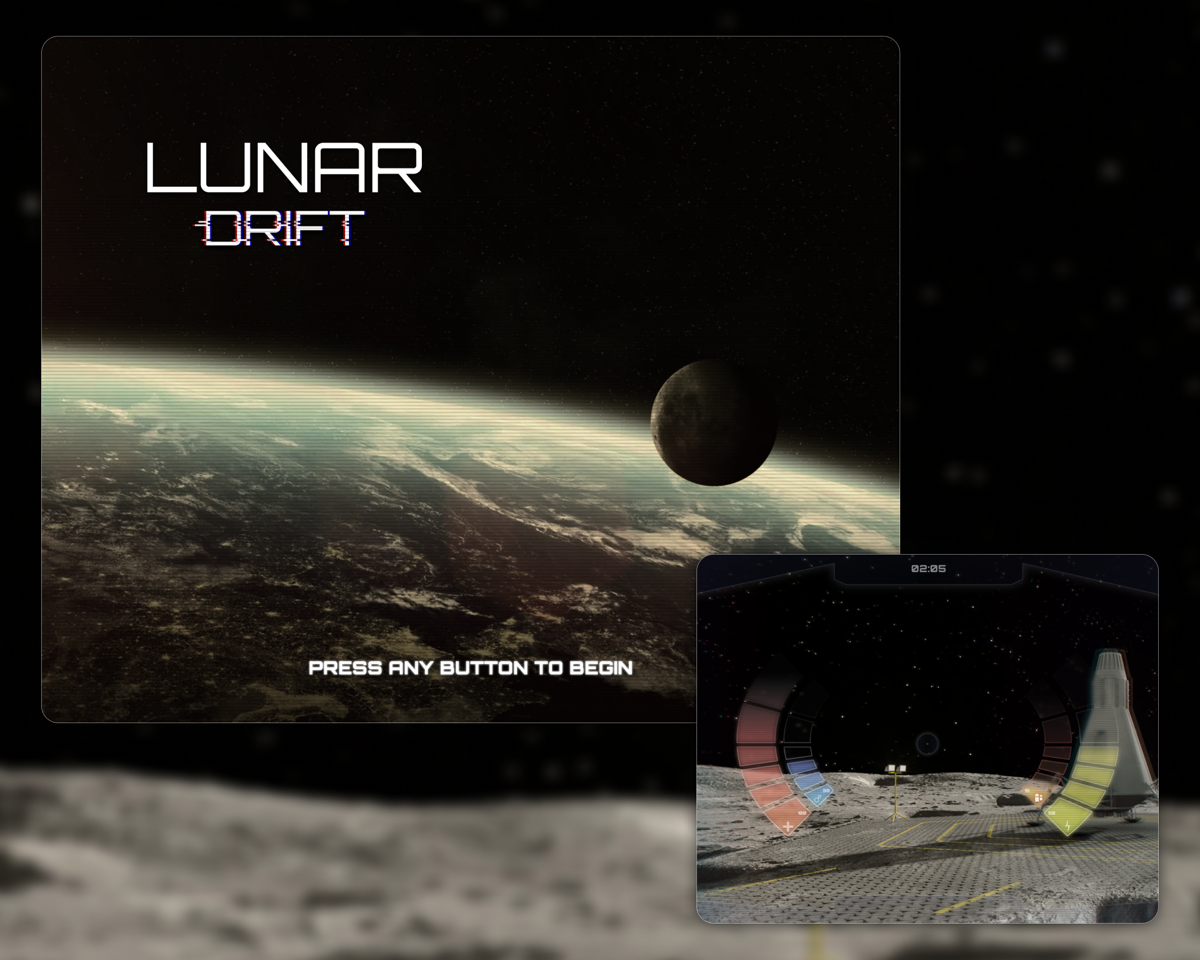
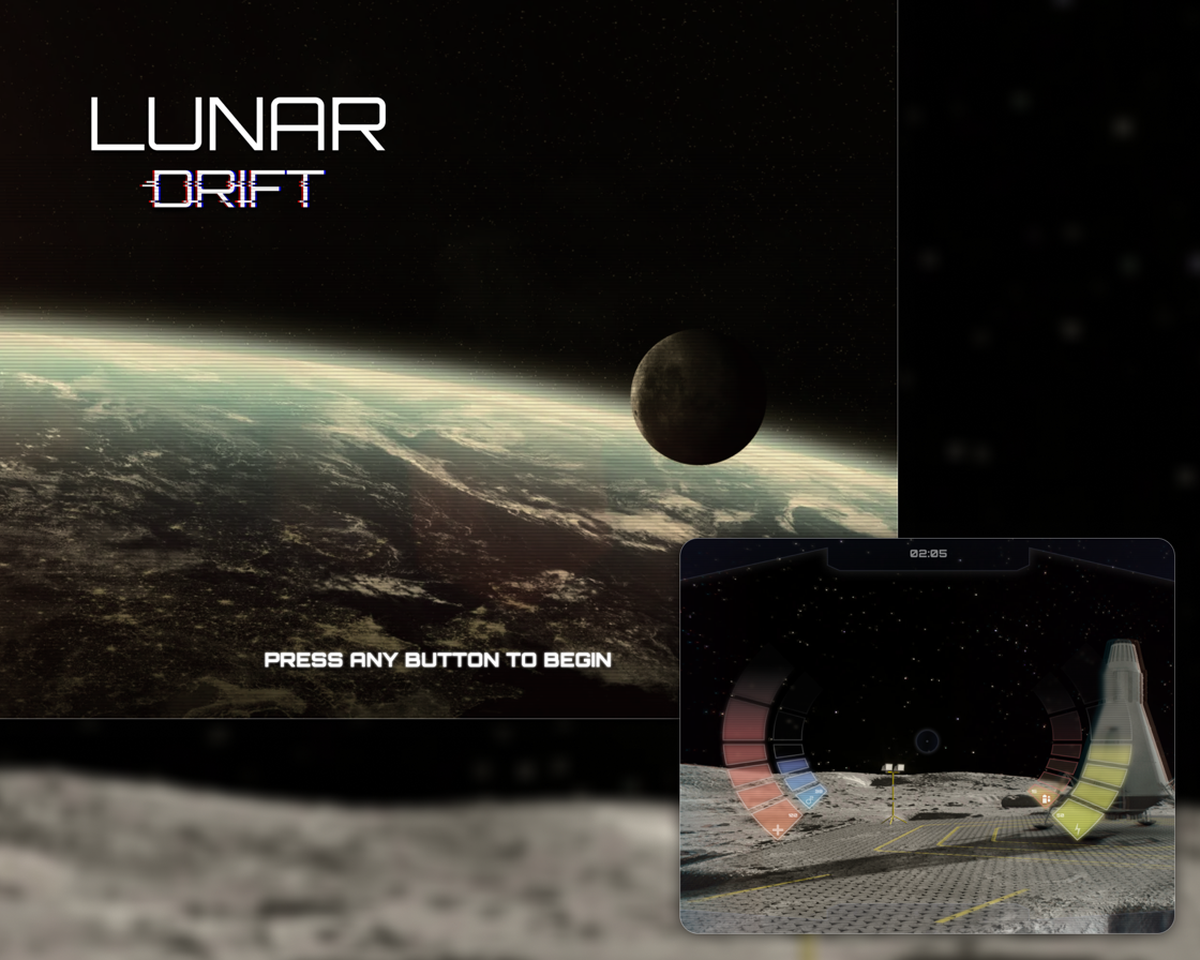
Update project covers, reorder More Work, wide-desktop grid sizing, hide More Work label on mobile

diff --git a/index.html b/index.html
@@ -206,48 +206,46 @@
       <section class="project-section" aria-labelledby="more-work-heading">
         <h2 class="project-section__title" id="more-work-heading">More Work</h2>
         <ul class="project-grid">
-        <li class="project" id="minecraft-baldurs-gate">
-          <a class="tile" href="#minecraft-baldurs-gate">
-            <img class="tile__cover" src="assets/projects/minecraft-baldurs-gate/cover.png" alt="" width="1200" height="606" loading="lazy" decoding="async">
+        <li class="project" id="lunar-drift">
+          <a class="tile" href="#lunar-drift">
+            <img class="tile__cover" src="assets/projects/lunar-drift/cover.png" alt="" width="1200" height="960" loading="lazy" decoding="async">
             <div class="tile__caption">
-              <h3 class="tile__title">Minecraft Meets Baldur's Gate</h3>
-              <p class="tile__tagline">Serious weapons for a not-so-serious game.</p>
+              <h3 class="tile__title">Lunar Drift</h3>
+              <p class="tile__tagline">A brief crack at video game UI.</p>
             </div>
           </a>
           <div class="project__details">
-            <p class="project__tagline">Translating Baldur's Gate 3 weapons into hand-painted, block-built Minecraft models.</p>
+            <p class="project__tagline">A space-themed game interface where the UI builds the atmosphere.</p>
             <dl class="project__meta">
-              <dt>Role</dt><dd>3D modeling, texturing</dd>
-              <dt>Tools</dt><dd>BlockBench</dd>
-              <dt>Focus</dt><dd>Stylization, low-poly translation</dd>
+              <dt>Role</dt><dd>Game UI design, logo design</dd>
+              <dt>Platform</dt><dd>PC game concept</dd>
+              <dt>Focus</dt><dd>Atmosphere, immersion, HUD design</dd>
             </dl>
             <div class="project__body">
               <h3>Overview</h3>
-              <p>A collection of 3D models built in BlockBench and inspired by iconic weapons from Baldur's Gate 3. Each one is a stylized interpretation of its in-game counterpart that embraces Minecraft's blocky look.</p>
-              <h3>Reference and approach</h3>
-              <p>I began by gathering visual references from in-game screenshots and online wikis, studying the silhouette, color palette, and key features of each weapon. BlockBench is a low-poly, cube-based tool, so I had to find creative ways to simplify complex shapes while keeping the essence of each weapon.</p>
+              <p>I've always wanted to work in game development. When I first thought about it, I assumed I'd be working on game design and storytelling, and it turns out UI has a huge impact on both. A game's UI can be a complete game-changer (pun intended) for atmosphere and immersion. I wanted to capture that in the design for this space-themed game.</p>
+              <h3>Splash screen</h3>
+              <p>First I needed a typeface that felt space-age but stayed simple to read. From there I created the game's logo and customized the letters in "DRIFT" so they look like they're glitching.</p>
               <figure>
-                <img src="assets/projects/minecraft-baldurs-gate/0.png" alt="The Markoheshkir staff as a block-built Minecraft model standing in a grassy field, next to its Baldur's Gate 3 reference art" width="1600" height="1451" loading="lazy" decoding="async">
-                <figcaption>Markoheshkir, built in BlockBench beside its reference art. Part of this work's copyright is owned by Larian Studios and is used under the <a target="_blank" rel="noopener" href="https://larian.com/fan-content-policy">Larian Fan Content Policy</a>.</figcaption>
+                <img src="assets/projects/lunar-drift/0.png" alt="Lunar Drift splash screen with the game logo" width="1600" height="1280" loading="lazy" decoding="async">
+                <figcaption>The splash screen.</figcaption>
               </figure>
-              <h3>Blocking out and detail</h3>
-              <p>I blocked out each model with basic forms to get the proportions right, then refined the details and added depth with subtle layering and, where supported, creative use of transparency. I leaned into stylized exaggeration for readability, especially on smaller models like Crimson Mischief.</p>
+              <h3>Title screen</h3>
+              <p>I wanted the buttons to resemble an old-school monitor, scan lines and all, and added a glow so they feel back-lit. The background still felt plain, so I carried the scan lines across the full screen on the splash and title screens to set the mood.</p>
               <figure>
-                <img src="assets/projects/minecraft-baldurs-gate/1.png" alt="The Sword of Chaos as a Minecraft model, shown with its reference image from the Baldur's Gate 3 wiki" width="1600" height="1451" loading="lazy" decoding="async">
-                <figcaption>The Sword of Chaos. Reference image from <a target="_blank" rel="noopener" href="https://bg3.wiki/wiki/File:Sword_of_Chaos_ingame.png">bg3.wiki</a>, uploaded by <a target="_blank" rel="noopener" href="https://bg3.wiki/wiki/User:ShadowOake">ShadowOake</a>.</figcaption>
+                <img src="assets/projects/lunar-drift/1.png" alt="Lunar Drift title screen: the glitched logo above the moon and Earth's horizon, with Continue, New Game, Settings, and Quit buttons along the bottom" width="1600" height="1280" loading="lazy" decoding="async">
+                <figcaption>The title screen.</figcaption>
               </figure>
-              <h3>Texturing</h3>
-              <p>I painted the textures by hand directly in BlockBench, using custom palettes that capture each weapon's personality.</p>
+              <h3>In-game UI</h3>
+              <p>In game, curved segmented gauges frame the view on either side, tracking health, oxygen, and other stats without covering the scene. As a stat decays, its segments empty and shift color so players can read their state at a glance.</p>
               <figure>
-                <img src="assets/projects/minecraft-baldurs-gate/2.png" alt="A golden spiked mace model standing in the End dimension, next to its in-game reference" width="1600" height="1451" loading="lazy" decoding="async">
-                <figcaption>A mace in the End, with its in-game reference. Part of this work's copyright is owned by Larian Studios and is used under the Larian Fan Content Policy.</figcaption>
+                <img src="assets/projects/lunar-drift/2.png" alt="In-game view of a lunar lander on the moon's surface, framed by curved health and oxygen gauges on the left and energy gauges on the right" width="1600" height="1280" loading="lazy" decoding="async">
+                <figcaption>The in-game UI.</figcaption>
               </figure>
               <figure>
-                <img src="assets/projects/minecraft-baldurs-gate/3.png" alt="Crimson Mischief, a red dagger, as a Minecraft model in the Nether, with its Baldur's Gate 3 reference art" width="1600" height="1451" loading="lazy" decoding="async">
-                <figcaption>Crimson Mischief in the Nether, with its reference art.</figcaption>
+                <img src="assets/projects/lunar-drift/3.png" alt="The same in-game view with several stat gauges partially depleted" width="1600" height="1280" loading="lazy" decoding="async">
+                <figcaption>The in-game UI, with decay on stats.</figcaption>
               </figure>
-              <h3>Reflection</h3>
-              <p>Throughout, I balanced fidelity to the original game with creative interpretation. The goal was never an exact copy. It was to translate these legendary weapons into a form that feels at home in a fantasy RPG Minecraft mod.</p>
             </div>
           </div>
         </li>
@@ -310,52 +308,54 @@
               <h3>The Cyber Security Dino</h3>
               <p>The dino sits at a desk in a company cap with a coffee mug, looking suspiciously at a fish dangling from a hook on its monitor. It is a playful nod to phishing, and it reuses the Ginkgo brand's greens so it feels part of the company.</p>
               <figure>
-                <img src="assets/projects/ginkgo-cyber-security-week/0.png" alt="A green cartoon dinosaur in a Ginkgo cap eyeing a fish on a fishing hook on its computer screen, above the text Ginkgo Bioworks Cybersecurity Awareness 2023" width="1600" height="1280" loading="lazy" decoding="async">
+                <img src="assets/projects/ginkgo-cyber-security-week/0.png" alt="Ginkgo Bioworks Information Security crest with crossed swords and ginkgo leaves, above four circular gear badges with security icons and slogans" width="1600" height="1280" loading="lazy" decoding="async">
                 <figcaption>The Cyber Security Dino.</figcaption>
               </figure>
             </div>
           </div>
         </li>
-        <li class="project" id="lunar-drift">
-          <a class="tile" href="#lunar-drift">
-            <img class="tile__cover" src="assets/projects/lunar-drift/cover.png" alt="" width="1200" height="960" loading="lazy" decoding="async">
+        <li class="project" id="minecraft-baldurs-gate">
+          <a class="tile" href="#minecraft-baldurs-gate">
+            <img class="tile__cover" src="assets/projects/minecraft-baldurs-gate/cover.png" alt="" width="1200" height="606" loading="lazy" decoding="async">
             <div class="tile__caption">
-              <h3 class="tile__title">Lunar Drift</h3>
-              <p class="tile__tagline">A brief crack at video game UI.</p>
+              <h3 class="tile__title">Minecraft Meets Baldur's Gate</h3>
+              <p class="tile__tagline">Serious weapons for a not-so-serious game.</p>
             </div>
           </a>
           <div class="project__details">
-            <p class="project__tagline">A space-themed game interface where the UI builds the atmosphere.</p>
+            <p class="project__tagline">Translating Baldur's Gate 3 weapons into hand-painted, block-built Minecraft models.</p>
             <dl class="project__meta">
-              <dt>Role</dt><dd>Game UI design, logo design</dd>
-              <dt>Platform</dt><dd>PC game concept</dd>
-              <dt>Focus</dt><dd>Atmosphere, immersion, HUD design</dd>
+              <dt>Role</dt><dd>3D modeling, texturing</dd>
+              <dt>Tools</dt><dd>BlockBench</dd>
+              <dt>Focus</dt><dd>Stylization, low-poly translation</dd>
             </dl>
             <div class="project__body">
               <h3>Overview</h3>
-              <p>I've always wanted to work in game development. When I first thought about it, I assumed I'd be working on game design and storytelling, and it turns out UI has a huge impact on both. A game's UI can be a complete game-changer (pun intended) for atmosphere and immersion. I wanted to capture that in the design for this space-themed game.</p>
-              <h3>Splash screen</h3>
-              <p>First I needed a typeface that felt space-age but stayed simple to read. From there I created the game's logo and customized the letters in "DRIFT" so they look like they're glitching.</p>
+              <p>A collection of 3D models built in BlockBench and inspired by iconic weapons from Baldur's Gate 3. Each one is a stylized interpretation of its in-game counterpart that embraces Minecraft's blocky look.</p>
+              <h3>Reference and approach</h3>
+              <p>I began by gathering visual references from in-game screenshots and online wikis, studying the silhouette, color palette, and key features of each weapon. BlockBench is a low-poly, cube-based tool, so I had to find creative ways to simplify complex shapes while keeping the essence of each weapon.</p>
               <figure>
-                <img src="assets/projects/lunar-drift/0.png" alt="Lunar Drift splash screen with the game logo" width="1600" height="1280" loading="lazy" decoding="async">
-                <figcaption>The splash screen.</figcaption>
+                <img src="assets/projects/minecraft-baldurs-gate/0.png" alt="The Markoheshkir staff as a block-built Minecraft model standing in a grassy field, next to its Baldur's Gate 3 reference art" width="1600" height="1451" loading="lazy" decoding="async">
+                <figcaption>Markoheshkir, built in BlockBench beside its reference art. Part of this work's copyright is owned by Larian Studios and is used under the <a target="_blank" rel="noopener" href="https://larian.com/fan-content-policy">Larian Fan Content Policy</a>.</figcaption>
               </figure>
-              <h3>Title screen</h3>
-              <p>I wanted the buttons to resemble an old-school monitor, scan lines and all, and added a glow so they feel back-lit. The background still felt plain, so I carried the scan lines across the full screen on the splash and title screens to set the mood.</p>
+              <h3>Blocking out and detail</h3>
+              <p>I blocked out each model with basic forms to get the proportions right, then refined the details and added depth with subtle layering and, where supported, creative use of transparency. I leaned into stylized exaggeration for readability, especially on smaller models like Crimson Mischief.</p>
               <figure>
-                <img src="assets/projects/lunar-drift/1.png" alt="Lunar Drift title screen: the glitched logo above the moon and Earth's horizon, with Continue, New Game, Settings, and Quit buttons along the bottom" width="1600" height="1280" loading="lazy" decoding="async">
-                <figcaption>The title screen.</figcaption>
+                <img src="assets/projects/minecraft-baldurs-gate/1.png" alt="The Sword of Chaos as a Minecraft model, shown with its reference image from the Baldur's Gate 3 wiki" width="1600" height="1451" loading="lazy" decoding="async">
+                <figcaption>The Sword of Chaos. Reference image from <a target="_blank" rel="noopener" href="https://bg3.wiki/wiki/File:Sword_of_Chaos_ingame.png">bg3.wiki</a>, uploaded by <a target="_blank" rel="noopener" href="https://bg3.wiki/wiki/User:ShadowOake">ShadowOake</a>.</figcaption>
               </figure>
-              <h3>In-game UI</h3>
-              <p>In game, curved segmented gauges frame the view on either side, tracking health, oxygen, and other stats without covering the scene. As a stat decays, its segments empty and shift color so players can read their state at a glance.</p>
+              <h3>Texturing</h3>
+              <p>I painted the textures by hand directly in BlockBench, using custom palettes that capture each weapon's personality.</p>
               <figure>
-                <img src="assets/projects/lunar-drift/2.png" alt="In-game view of a lunar lander on the moon's surface, framed by curved health and oxygen gauges on the left and energy gauges on the right" width="1600" height="1280" loading="lazy" decoding="async">
-                <figcaption>The in-game UI.</figcaption>
+                <img src="assets/projects/minecraft-baldurs-gate/2.png" alt="A golden spiked mace model standing in the End dimension, next to its in-game reference" width="1600" height="1451" loading="lazy" decoding="async">
+                <figcaption>A mace in the End, with its in-game reference. Part of this work's copyright is owned by Larian Studios and is used under the Larian Fan Content Policy.</figcaption>
               </figure>
               <figure>
-                <img src="assets/projects/lunar-drift/3.png" alt="The same in-game view with several stat gauges partially depleted" width="1600" height="1280" loading="lazy" decoding="async">
-                <figcaption>The in-game UI, with decay on stats.</figcaption>
+                <img src="assets/projects/minecraft-baldurs-gate/3.png" alt="Crimson Mischief, a red dagger, as a Minecraft model in the Nether, with its Baldur's Gate 3 reference art" width="1600" height="1451" loading="lazy" decoding="async">
+                <figcaption>Crimson Mischief in the Nether, with its reference art.</figcaption>
               </figure>
+              <h3>Reflection</h3>
+              <p>Throughout, I balanced fidelity to the original game with creative interpretation. The goal was never an exact copy. It was to translate these legendary weapons into a form that feels at home in a fantasy RPG Minecraft mod.</p>
             </div>
           </div>
         </li>

diff --git a/css/layout.css b/css/layout.css
@@ -126,6 +126,17 @@
   @media (max-width: 39.999em) {
     .appearance { display: none; }
 
+    /* The "More Work" label is hidden on mobile (kept for screen readers) */
+    .project-section__title {
+      position: absolute;
+      width: 1px;
+      height: 1px;
+      margin: -1px;
+      overflow: hidden;
+      clip-path: inset(50%);
+      white-space: nowrap;
+    }
+
     /* The profile panel runs edge to edge (top, left and right) */
     .sidebar { margin: calc(-1 * var(--gap)) calc(-1 * var(--gap)) 0; }
     .profile { border-radius: 0; }
@@ -209,7 +220,12 @@
     }
   }
 
-  @media (min-width: 80em) { .page { --cols: 4; } }
+  /* Wide desktop: the featured section shows 3 larger tiles across, More Work shows 4 */
+  @media (min-width: 80em) {
+    .page { --cols: 4; }
+    .project-section:first-of-type .project-grid { grid-template-columns: repeat(3, minmax(0, 1fr)); }
+    .project-section:last-of-type .project-grid { grid-template-columns: repeat(4, minmax(0, 1fr)); }
+  }
   @media (min-width: 100em) { .page { --cols: 5; } }
 
   /* Desktop with room: the page itself never scrolls. Only the project list does. */
